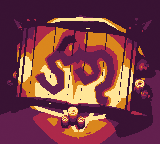
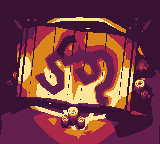
Added password with animation

diff --git a/src/game.js b/src/game.js
@@ -64,6 +64,7 @@ export class Game {
         this.devotionMax = 100;
         this.stage = 1;
         this.activeItem = 0;
+        this.password = '';
         this.newItem = 0;
         this.tutor = 0;
 
@@ -324,7 +325,51 @@ export class Game {
             }
         }
 
-        console.log(x,y);
+        if (this.stage >= 17 && this.stage <= 20) {
+            if (this.stage === 17) { this.password = ''; }
+
+            if (x > 74 && y > 66 && x < 84 && y < 76) {
+                this.password += 'a';
+                this.stage++;
+            }
+
+            if (x > 36 && y > 73 && x < 46 && y < 84) {
+                this.password += 'b';
+                this.stage++;
+            }
+
+            if (x > 64 && y > 35 && x < 77 && y < 44) {
+                this.password += 'c';
+                this.stage++;
+            }
+
+            if (x > 96 && y > 95 && x < 108 && y < 106) {
+                this.password += 'd';
+                this.stage++;
+            }
+
+            if (this.password.length === 4) {
+                setTimeout(() => {
+                    if (this.password === "abcd") {
+                        this.devotionCurrent += 10;
+                        this.stage = 22;
+                        this.screenShake = 500;
+                        setTimeout(() => { this.stage = 23; this.screenShake = 1000; }, 1500);
+                        setTimeout(() => { this.stage = 24; }, 1750);
+                        setTimeout(() => { this.stage = 25; }, 2000);
+                        setTimeout(() => { this.stage = 26; }, 2250);
+                    } else {
+                        this.stage = 22;
+                        this.screenShake = 500;
+                        setTimeout(() => { this.stage = 17; }, 1500);
+                    }
+                }, 500);
+            }
+            
+            return;
+        }
+
+        console.log(x,y, this.stage);
     }
 
     keyboardEvent(code) {

diff --git a/src/graphics.js b/src/graphics.js
@@ -72,6 +72,42 @@ export const Graphics = {
         {
             Paths: ["assets/stages/stage_17_1.png", "assets/stages/stage_17_2.png"],
             Images: []
+        },
+        {
+            Paths: ["assets/stages/stage_18_1.png", "assets/stages/stage_18_2.png"],
+            Images: []
+        },
+        {
+            Paths: ["assets/stages/stage_19_1.png", "assets/stages/stage_19_2.png"],
+            Images: []
+        },
+        {
+            Paths: ["assets/stages/stage_20_1.png", "assets/stages/stage_20_2.png"],
+            Images: []
+        },
+        {
+            Paths: ["assets/stages/stage_21_1.png", "assets/stages/stage_21_2.png"],
+            Images: []
+        },
+        {
+            Paths: ["assets/stages/stage_22_1.png", "assets/stages/stage_22_2.png"],
+            Images: []
+        },
+        {
+            Paths: ["assets/stages/stage_23_1.png", "assets/stages/stage_23_2.png"],
+            Images: []
+        },
+        {
+            Paths: ["assets/stages/stage_24_1.png", "assets/stages/stage_24_2.png"],
+            Images: []
+        },
+        {
+            Paths: ["assets/stages/stage_25_1.png", "assets/stages/stage_25_2.png"],
+            Images: []
+        },
+        {
+            Paths: ["assets/stages/stage_26_1.png", "assets/stages/stage_26_2.png"],
+            Images: []
         }
     ],
 
@@ -197,7 +233,7 @@ Graphics.Stage.forEach(stage => {
 [
     "TitleTop",
     "TitleBottom",
-    
+
     "Dither",
     "Tome",
     "PaperClose0",
